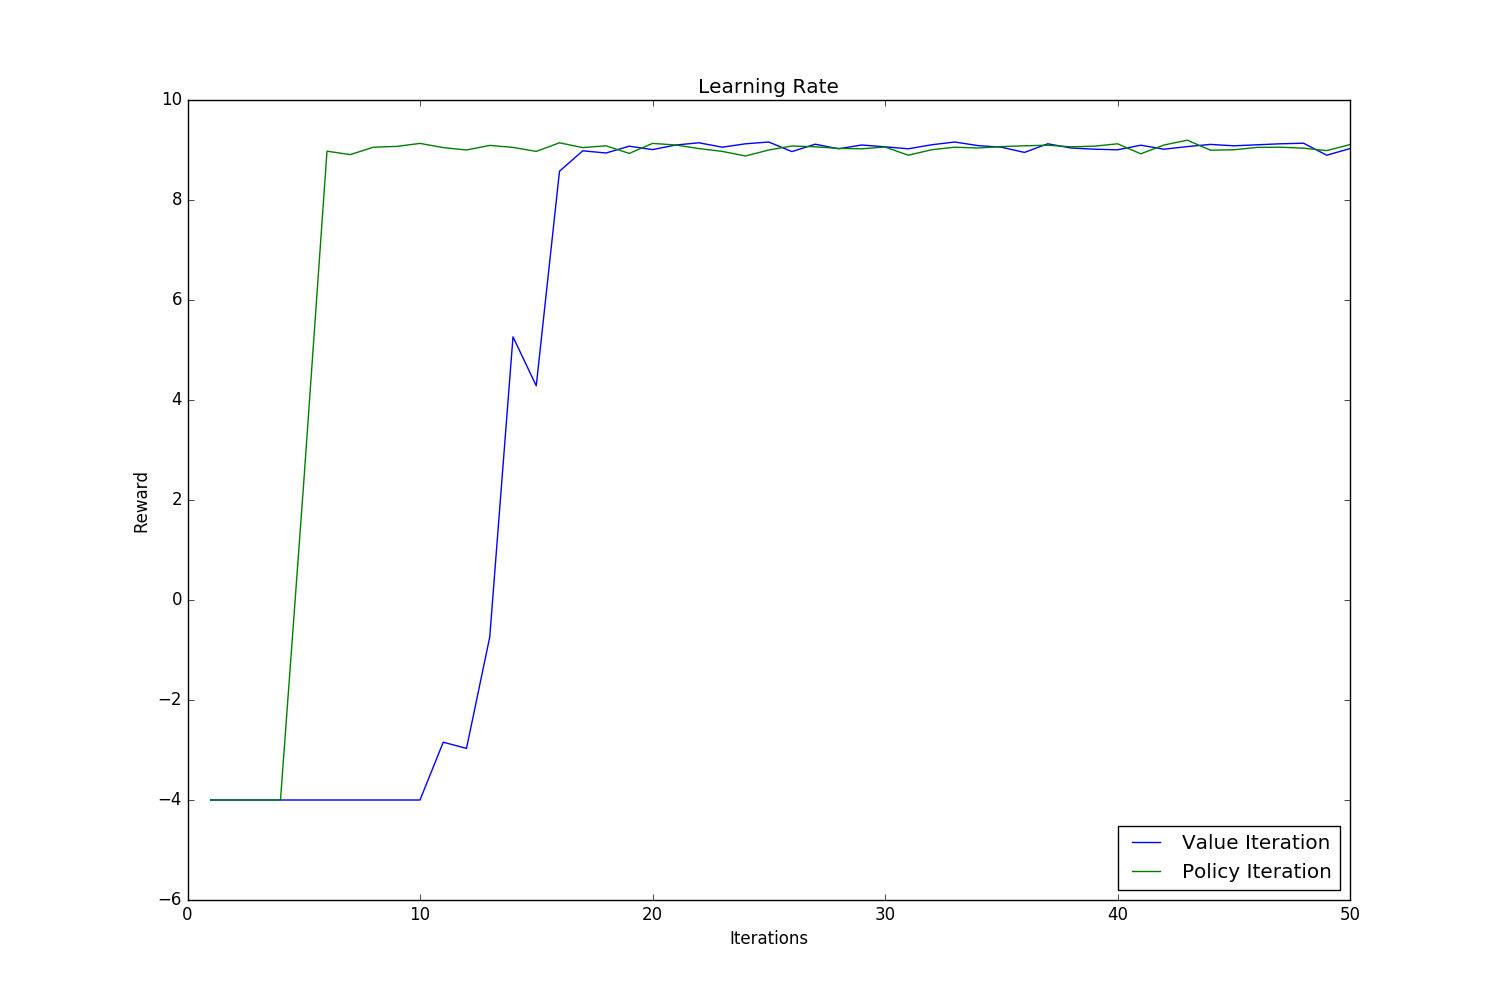
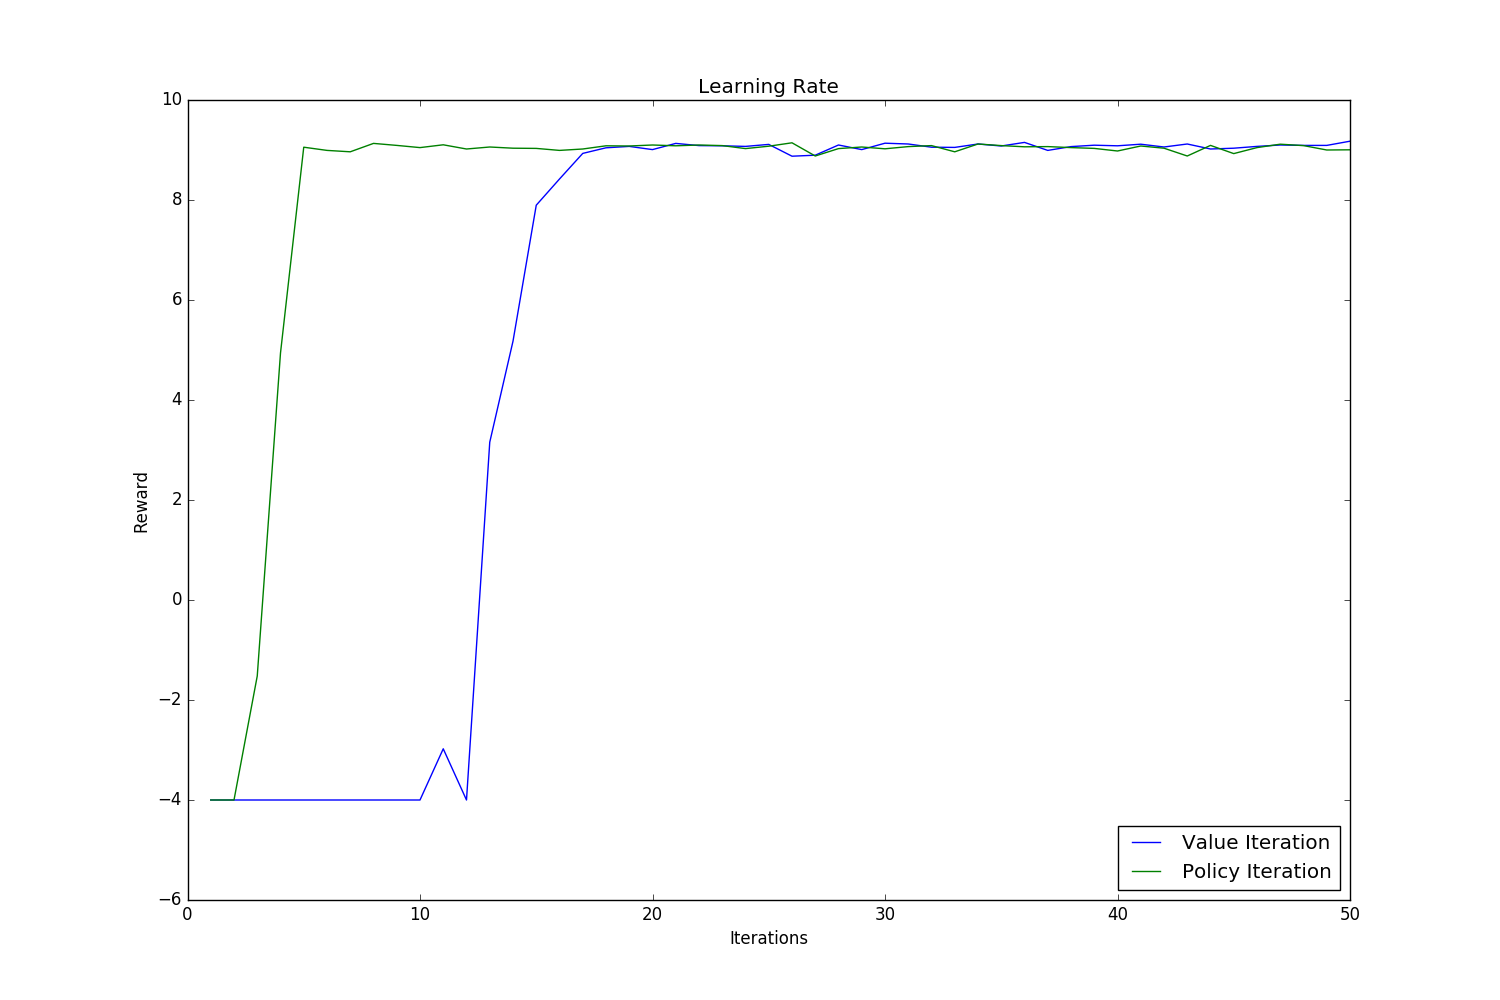
- Parameters tuning

diff --git a/session2/policy_iteration.py b/session2/policy_iteration.py
@@ -9,9 +9,9 @@ from timeit import default_timer as timer
 delta = 1e-3
 gamma = 1.0
 pmaxiters = 50  # Max number of policy improvements to perform
-vmaxiters = 5  # Max number of iterations to perform while evaluating a policy
+vmaxiters = 10  # Max number of iterations to perform while evaluating a policy
 
-envname = "NiceLavaFloor-v0"
+envname = "LavaFloor-v0"
 
 print("\n----------------------------------------------------------------")
 print("\tEnvironment: ", envname)

diff --git a/session2/comparison.py b/session2/comparison.py
@@ -42,7 +42,7 @@ series.append({"x": liters, "y": rewards, "ls": "-", "label": "Value Iteration"}
 
 print()
 
-vmaxiters = 5  # Max number of iterations to perform while evaluating a policy
+vmaxiters = 10  # Max number of iterations to perform while evaluating a policy
 rewards = np.zeros(len(liters))  # Rewards array
 c = 0
 
